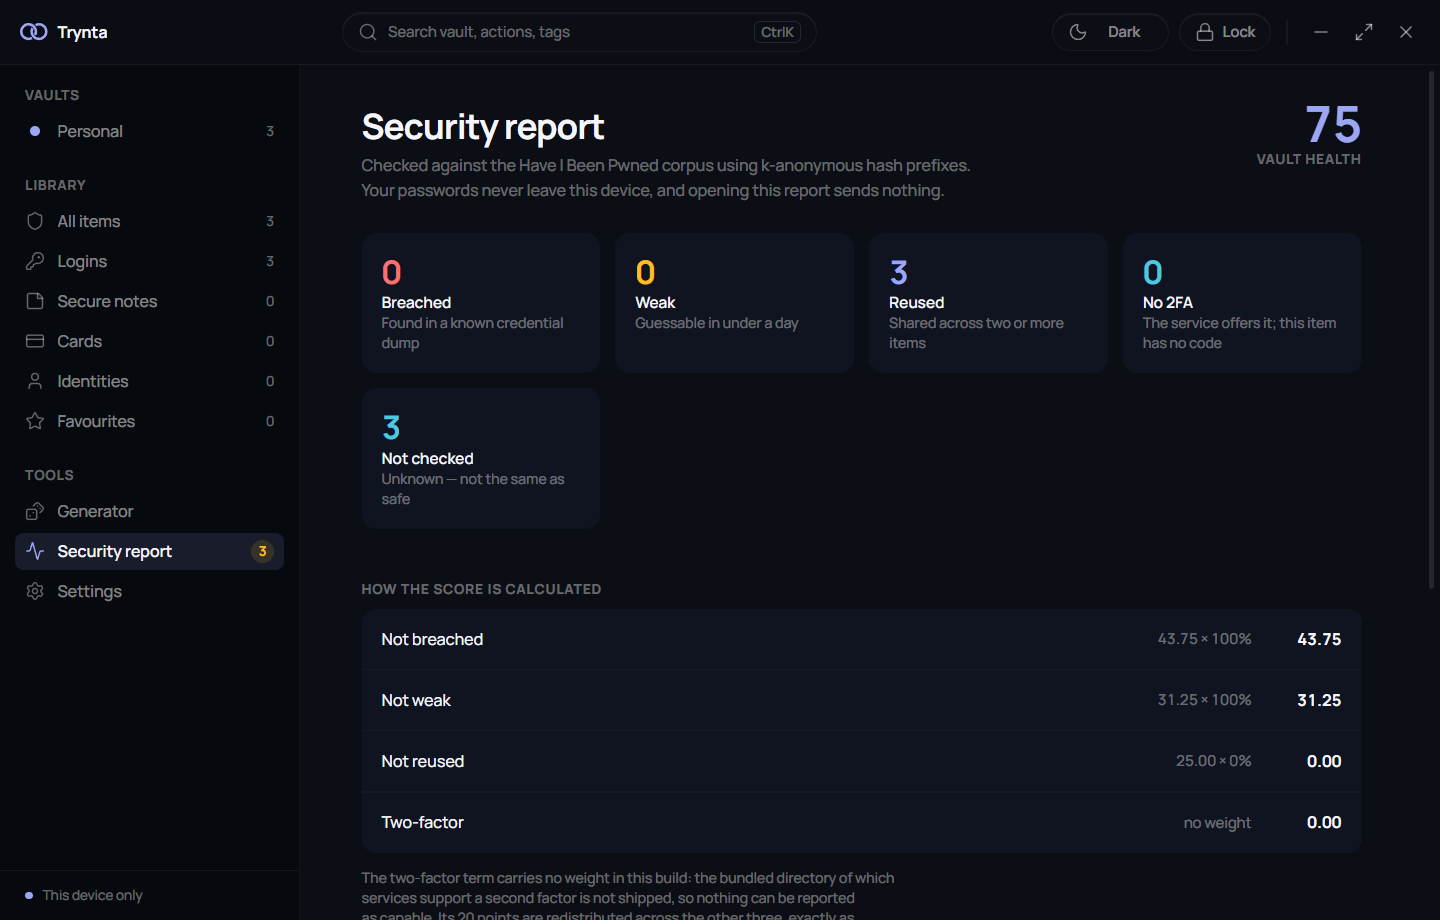
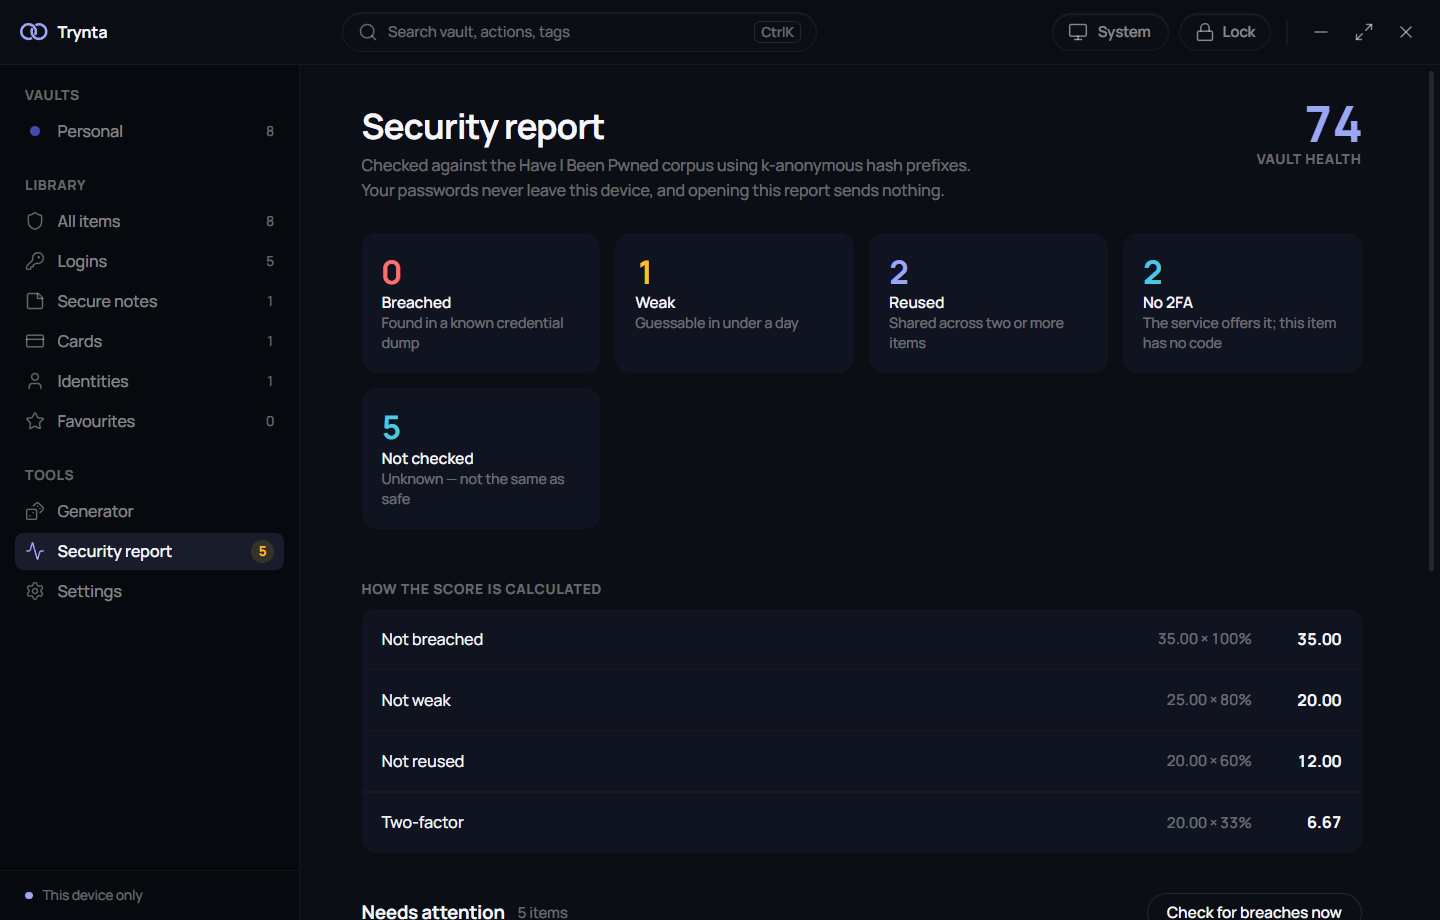
docs: fresh screenshots from the running app, ten of them
Replaces the four old images. Five views — the vault, a login with a live
one-time code, the generator, the security report and settings — in dark and
light, all 1440x920 from the same window so the pairs line up.

The vault behind them was seeded through the real interface rather than written
behind the app's back, so these are screenshots of data the product actually
created. Everything in it is unmistakably synthetic: every address is on
`trynta.example`, which RFC 2606 reserves so it can never resolve; the card is
Stripe's published test number; the one-time code comes from RFC 6238's own test
vector. The brand marks are the bundled ones, so taking these made no network
request — which is the claim the icons exist to support.

The passwords are deliberately mixed: four strong and unique, one weak, one pair
reused. A security report with nothing in it demonstrates nothing, and the report
shot is the one that has to earn its place.

diff --git a/README.md b/README.md
@@ -44,10 +44,19 @@ disclose which services you have accounts with.
 
 <div align="center">
 
-|                         Dark                          |                          Light                          |
-| :---------------------------------------------------: | :-----------------------------------------------------: |
-|   ![Item list, dark](docs/screenshots/dark-items.png)   |   ![Item list, light](docs/screenshots/light-items.png)   |
-| ![Security report, dark](docs/screenshots/dark-security.png) | ![Security report, light](docs/screenshots/light-security.png) |
+|                                    Dark                                     |                                     Light                                     |
+| :-------------------------------------------------------------------------: | :---------------------------------------------------------------------------: |
+|            ![The vault, dark](docs/screenshots/dark-vault.png)             |            ![The vault, light](docs/screenshots/light-vault.png)             |
+|      ![A login with a one-time code, dark](docs/screenshots/dark-item.png)      |      ![A login with a one-time code, light](docs/screenshots/light-item.png)      |
+|          ![The generator, dark](docs/screenshots/dark-generator.png)           |          ![The generator, light](docs/screenshots/light-generator.png)           |
+|        ![The security report, dark](docs/screenshots/dark-security.png)        |        ![The security report, light](docs/screenshots/light-security.png)        |
+|            ![Settings, dark](docs/screenshots/dark-settings.png)             |            ![Settings, light](docs/screenshots/light-settings.png)             |
+
+Every item on these screens is synthetic. The addresses are on `trynta.example`, which
+[RFC 2606](https://www.rfc-editor.org/rfc/rfc2606) reserves so it can never resolve; the card is
+Stripe's published test number; the one-time code comes from
+[RFC 6238](https://www.rfc-editor.org/rfc/rfc6238)'s own test vector. The brand marks are the
+bundled ones, drawn from the binary — taking these screenshots made no network request.
 
 </div>
 
